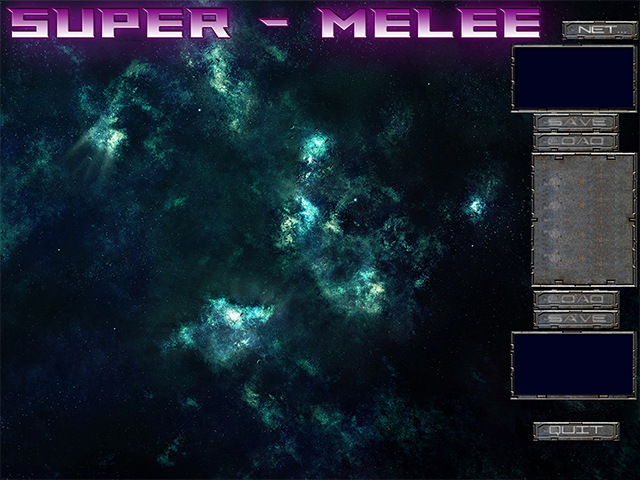
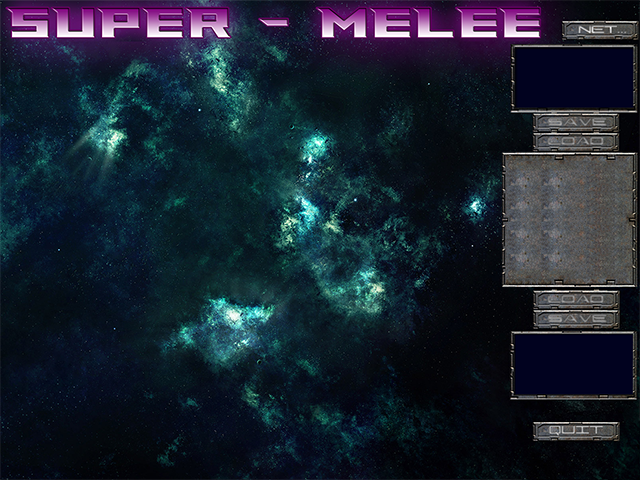
Tweaking the 'battle' button's placement in hires2x and 4x.

Changed region(s): [[0.7812, 0.3125, 0.8438, 0.625]]

diff --git a/sc2/src/uqm/supermelee/melee.c b/sc2/src/uqm/supermelee/melee.c
@@ -886,7 +886,7 @@ DrawMeleeShipStrings (MELEE_STATE *pMS, MeleeShip NewStarShip)
 	OldContext = SetContext (StatusContext);
 	GetContextClipRect (&OldRect);
 	r = OldRect;
-	r.corner.x += ((SAFE_X << 1) - (32 << RESOLUTION_FACTOR)) + MENU_X_OFFS - RESOLUTION_FACTOR; // JMS_GFX
+	r.corner.x += ((SAFE_X << 1) - (32 << RESOLUTION_FACTOR)) + MENU_X_OFFS - RES_CASE(0,0,3); // JMS_GFX
 	r.corner.y += (76 << RESOLUTION_FACTOR) + 3 * RESOLUTION_FACTOR; // JMS_GFX
 	r.extent.height = SHIP_INFO_HEIGHT + 3; // JMS_GFX
 	SetContextClipRect (&r);
